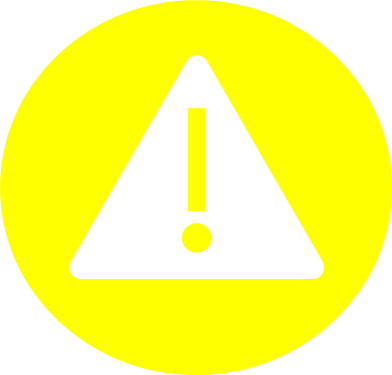
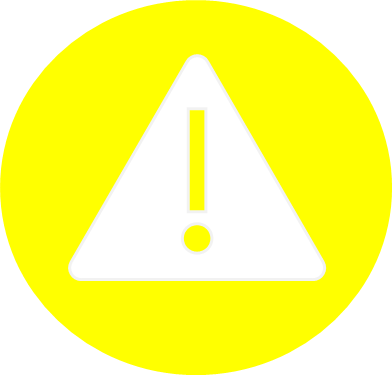
Updated

diff --git a/WebApp/ArcGIS_API_for_JavaScript/Sample/Anime_js/Road_Damage/index.html b/WebApp/ArcGIS_API_for_JavaScript/Sample/Anime_js/Road_Damage/index.html
@@ -2156,7 +2156,7 @@ var damageRatingSymbol = {
             value: "Basic",
             label: "Basic",
             symbol: getUniqueValueSymbol(
-                "https://EijiGorilla.github.io/Symbols/Warning Symbol/Basic2.svg",
+                "https://EijiGorilla.github.io/Symbols/Warning Symbol/Basic.png",
                 30,
                 "Basic"
             )
@@ -2165,7 +2165,7 @@ var damageRatingSymbol = {
             value: "Minor",
             label: "Minor",
             symbol: getUniqueValueSymbol(
-                "https://EijiGorilla.github.io/Symbols/Warning Symbol/Minor2.svg",
+                "https://EijiGorilla.github.io/Symbols/Warning Symbol/Minor.png",
                 30,
                 "Minor"
             )
@@ -2174,7 +2174,7 @@ var damageRatingSymbol = {
             value: "Moderate",
             label: "Moderate",
             symbol: getUniqueValueSymbol(
-                "https://EijiGorilla.github.io/Symbols/Warning Symbol/Moderate2.svg",
+                "https://EijiGorilla.github.io/Symbols/Warning Symbol/Moderate.png",
                 30,
                 "Moderate"
             )
@@ -2183,7 +2183,7 @@ var damageRatingSymbol = {
             value: "Major",
             label: "Major",
             symbol: getUniqueValueSymbol(
-                "https://EijiGorilla.github.io/Symbols/Warning Symbol/Major2.svg",
+                "https://EijiGorilla.github.io/Symbols/Warning Symbol/Major.png",
                 30,
                 "Major"
             )
